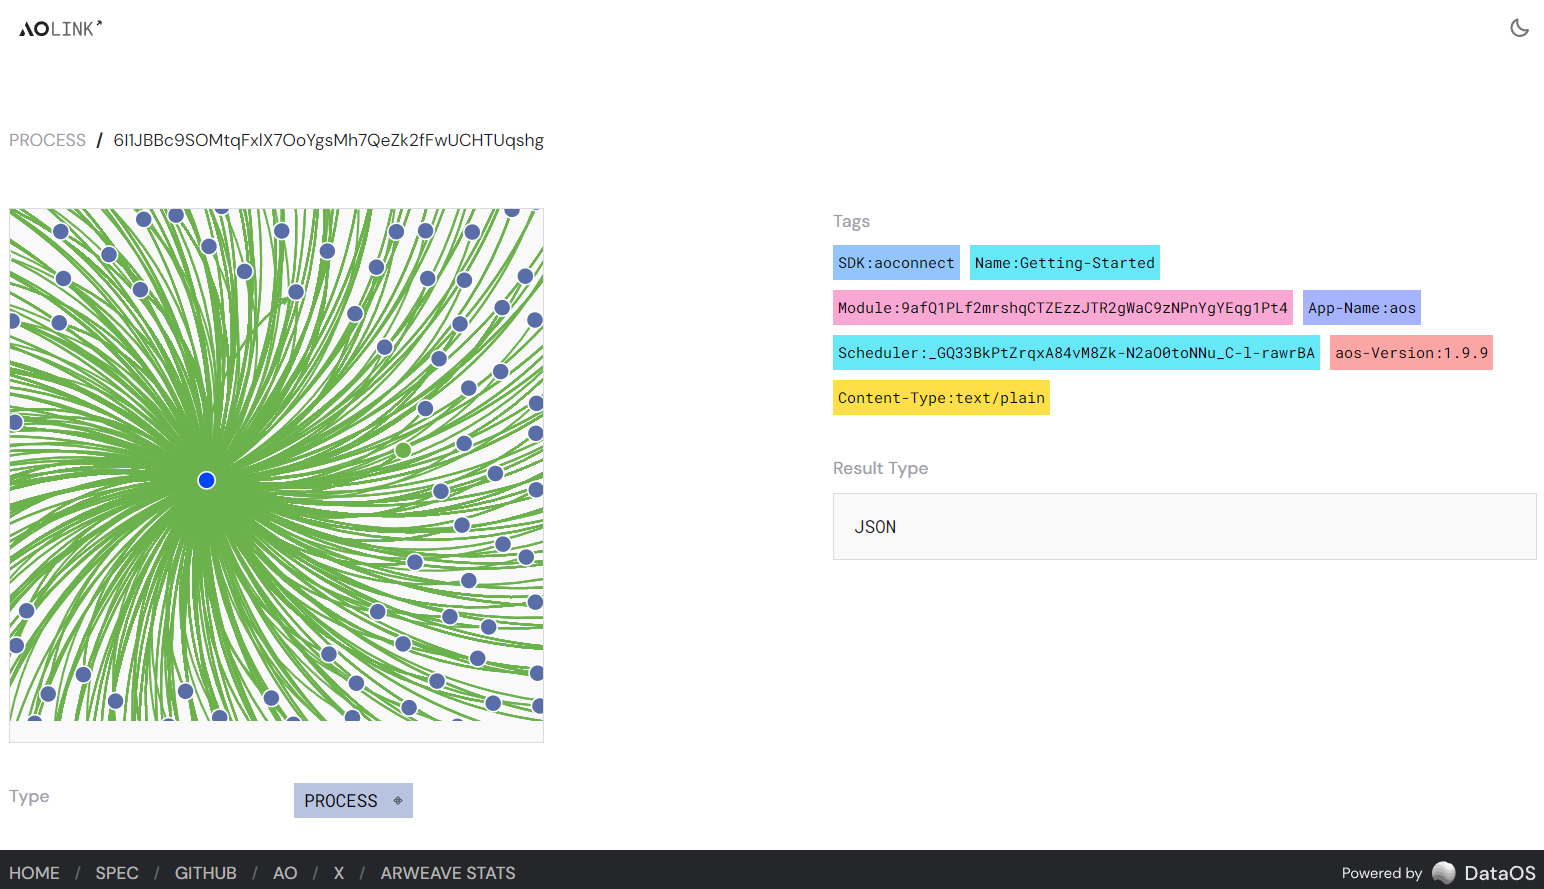
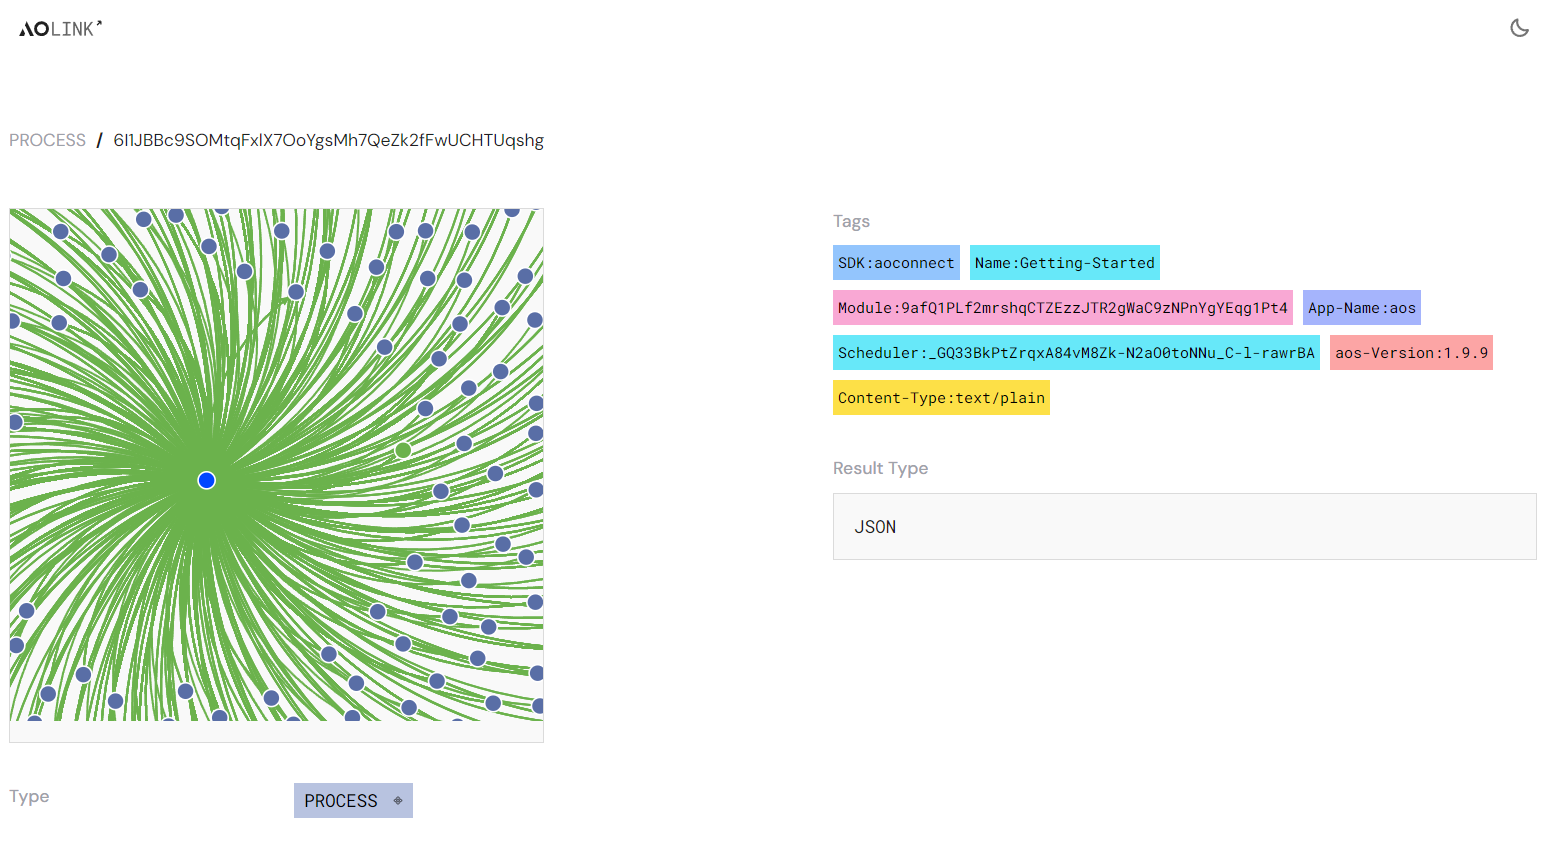
docs: :memo: updating troubleshooting page
Updated the following:
- New AO.link features
- DataOS is now a product of Autonomous Finance

diff --git a/src/guides/aos/troubleshooting.md b/src/guides/aos/troubleshooting.md
@@ -1,6 +1,6 @@
 # Troubleshooting using ao.link
 
-Working with a decentralized computer and network, you need to be able to troubleshoot more than your own code. You need to be able to track messages and processes. This is where [https://ao.link](https://ao.link) becomes an essential tool in your toolbox.
+Working with a decentralized computer and network, you need to be able to troubleshoot more than your own code. You need to be able to track messages, token balances, token transfers of processes. This is where [https://ao.link](https://ao.link) becomes an essential tool in your toolbox.
 
 ![ao.link homepage displaying ao network stats](aolink.png)
 
@@ -40,6 +40,9 @@ If you want to further troubleshoot and debug, you have the option to look at th
 
 ![ao.link compute result example for debugging](aolink-compute-example.png)
 
+And further understand linked messages.
+![ao.link linked messages](aolink-linked-message-example.png)
+
 ### Process Details
 
 ![ao.link displaying a process in details](aolink-process-details.png)
@@ -48,9 +51,15 @@ The process details provide you with information about the process it's useful t
 If you notice on the left you see the interaction with the process displayed on a graph.
 In this case, this is DevChat, and you can see all the processes that have interacted by Registering and Broadcasting Messages.
 
+You can effortless check the Info Handler, by pressing the "Fetch" button.
+![ao.link fetching the info hanlder](aolink-info-handler-example.png)
+
+On the bottom you see the processes balance and all messages send, with the option to break it down into Token transfers and Token balances using the tabs.
+![ao.link process message and token info](aolink-message-and-token-example.png)
+
 ## Further Questions?
 
-Feel free to reach out on the community Discord of DataOS.
+Feel free to reach out on the community Discord of Autonomous Finance, for all questions and support regarding ao.link.
 https://discord.gg/4kF9HKZ4Wu
 
 ## Summary
